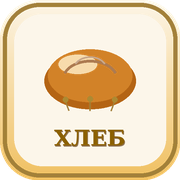
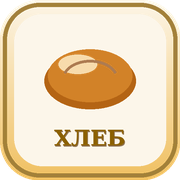
Add files via upload

diff --git a/index.html b/index.html
@@ -4,12 +4,10 @@
     <meta charset="UTF-8" />
     <meta name="viewport" content="width=device-width, initial-scale=1.0, maximum-scale=1.0" />
     <meta name="apple-mobile-web-app-capable" content="yes" />
-    <meta name="apple-mobile-web-app-status-bar-style" content="default" />
     <meta name="apple-mobile-web-app-title" content="Хлеб" />
     <link rel="apple-touch-icon" href="/bread-calculator/apple-touch-icon.png" />
-    <link rel="icon" type="image/png" href="/bread-calculator/apple-touch-icon.png" />
     <title>Калькулятор хлеба</title>
-    <script type="module" crossorigin src="/bread-calculator/assets/index-BRaEZO6z.js"></script>
+    <script type="module" crossorigin src="/bread-calculator/assets/index-ZCJymWr8.js"></script>
     <link rel="stylesheet" crossorigin href="/bread-calculator/assets/index-DlVFWprr.css">
   </head>
   <body>